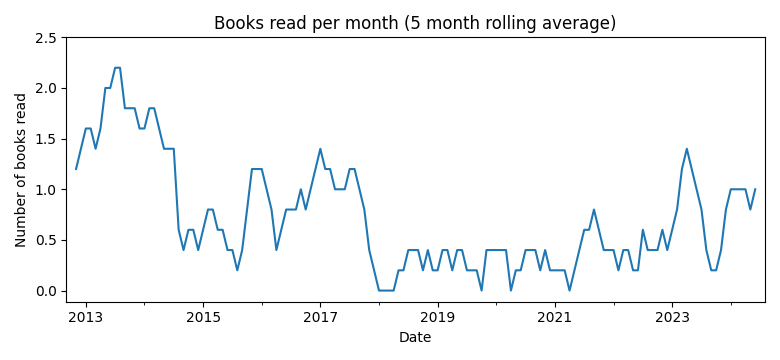
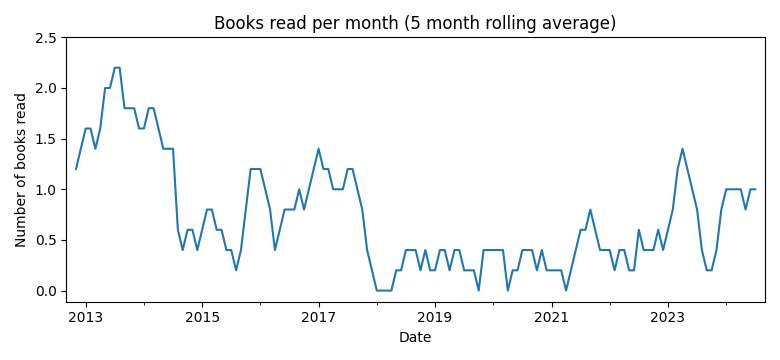
Expanse 1

diff --git a/README.md b/README.md
@@ -6,13 +6,16 @@ The most significant events impacting the number of books I read are
 * The birth of my daughers in 2018/01 and 2019/08
 
 ### Statistics
-Total number of books read: 106  
-Books per month: 0.74 (2012/9 to 2024/8)
+Total number of books read: 107  
+Books per month: 0.74 (2012/9 to 2024/9)
 
 ![Books recorded by year](book_recorded.png)
 ![Books read per month](book_read.png)
 
 ### List of books
+*Leviathan wakes*, James S. A. Corey  
+Finished: 2024.09.14
+
 *Cracking the PM interview*, Gayle McDowell, Jackie Bavaro  
 Finished: 2024.08.25
 
